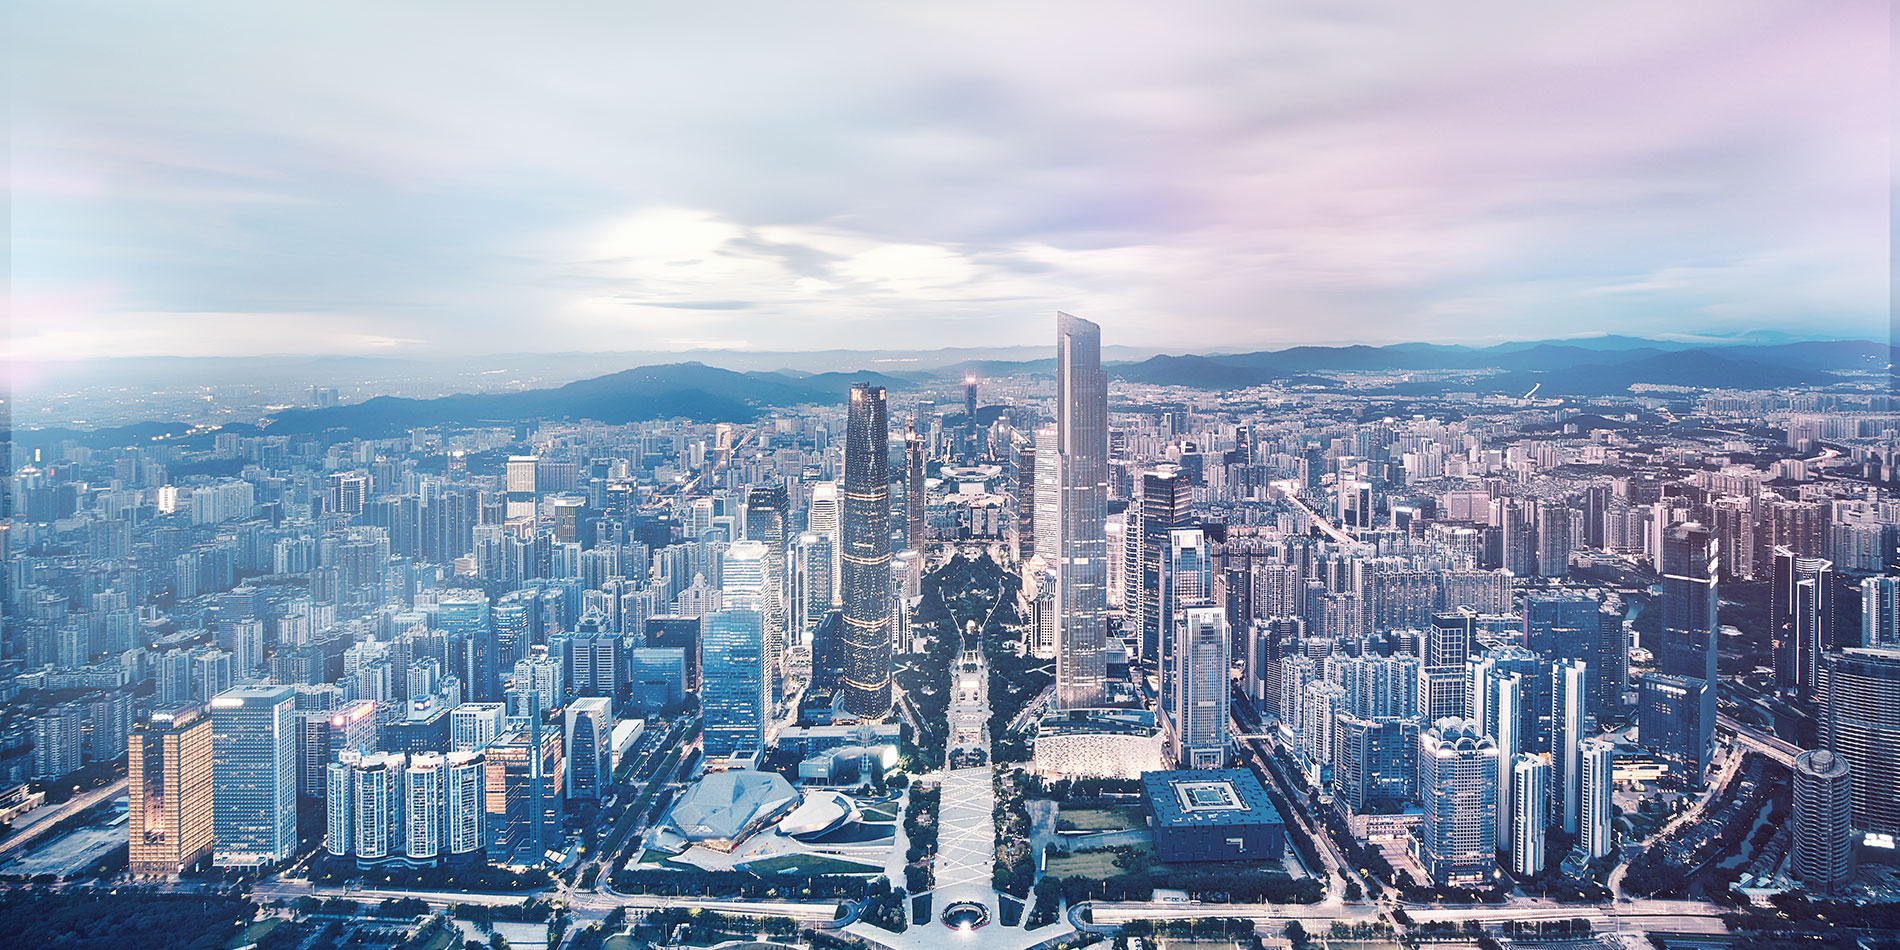
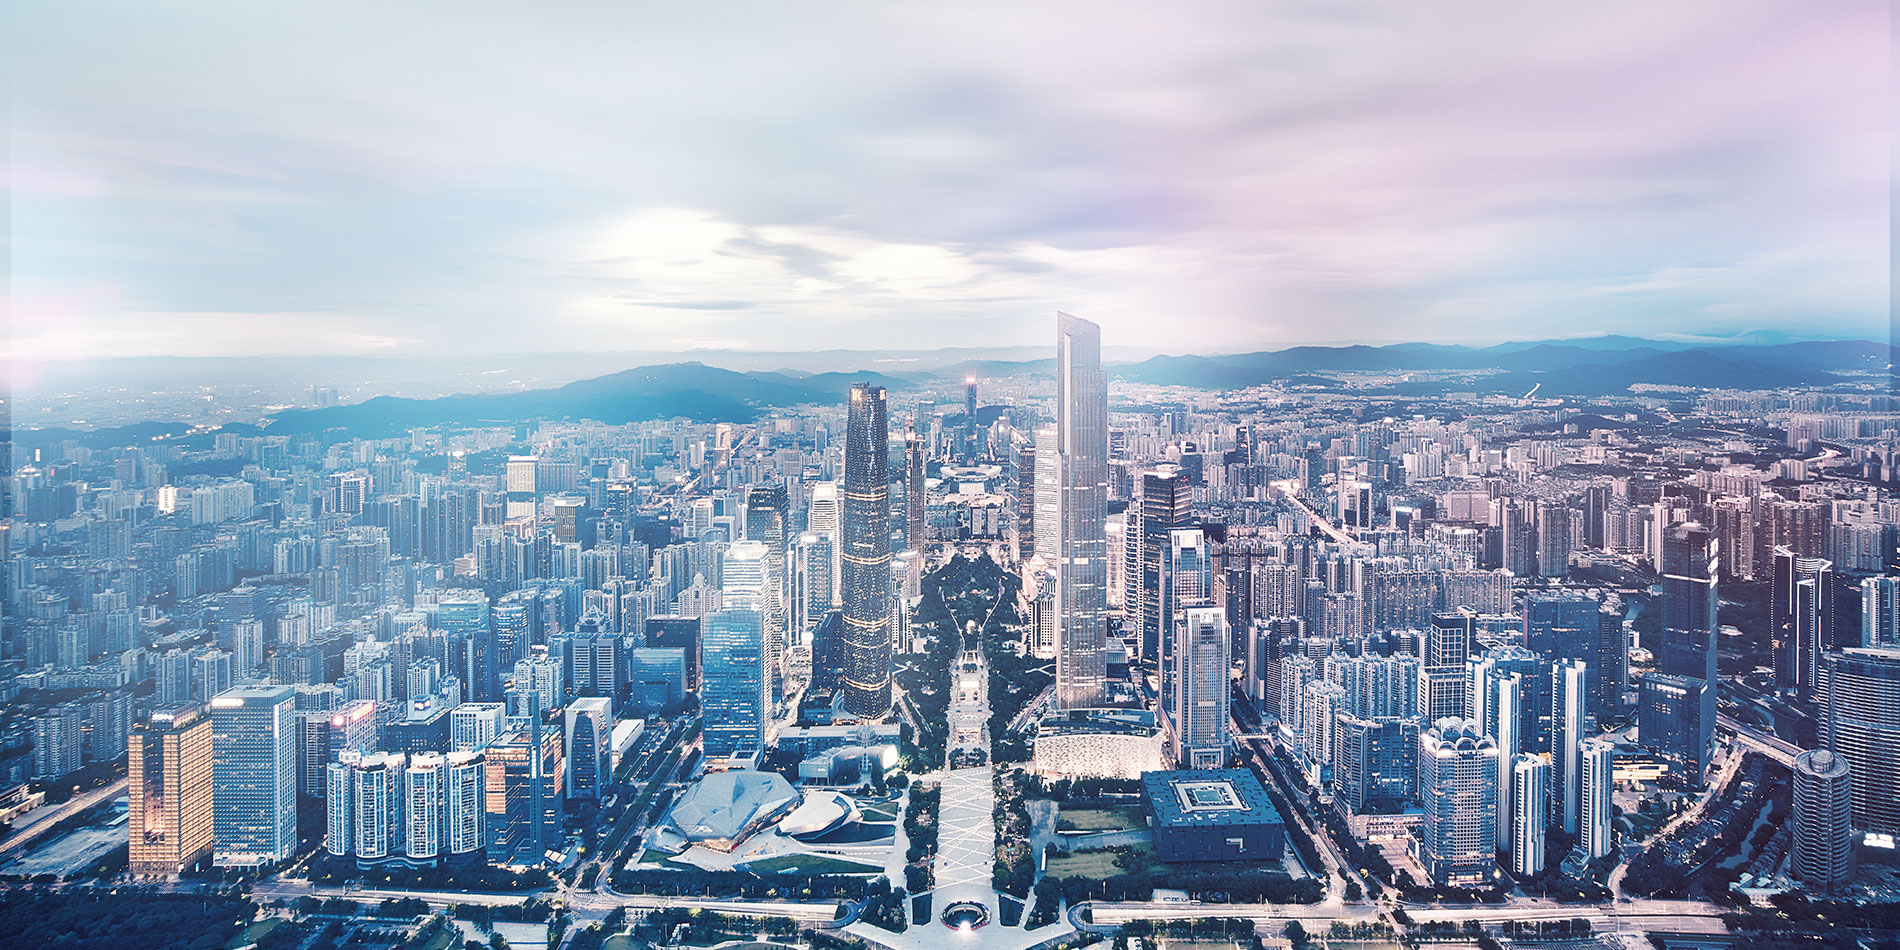
首頁切版完成

Changed region(s): [[0.1242, 0.3663, 0.3726, 0.5189], [0.4347, 0.3358, 0.6832, 0.4884], [0.9626, 0.7326, 0.9937, 0.7937]]

diff --git a/src/components/Index.vue b/src/components/Index.vue
@@ -75,7 +75,8 @@ export default {
 
 #page-index {
 
-  &::before {
+  &::before,
+  &::after {
     content: '';
     position: absolute;
     top: 0;
@@ -85,6 +86,20 @@ export default {
     background: url(../assets/index/bg.jpg) center center no-repeat;
     background-size: cover;
     z-index: -1;
+  }
+
+  &::after {
+    background-image: url(../assets/index/light_md.png);
+    background-size: 1200px 675px;
+  }
+
+  @media (min-width: 1600px) {
+
+    &::after {
+      background-image: url(../assets/index/light_lg.png);
+      background-size: 1900px 950px;
+    }
+
   }
 
   .anchor {
@@ -100,15 +115,106 @@ export default {
   .anchor-service { margin: -156px 0 0 -292px; }
   .anchor-others { margin: -88px 0 0 -458px; }
 
+  @media (min-width: 1600px) {
+    .anchor-automation { margin: -262px 0 0 528px; }
+    .anchor-security { margin: -178px 0 0 72px; }
+    .anchor-infrastructure { margin: -374px 0 0 -38px; }
+    .anchor-service { margin: -254px 0 0 -382px; }
+    .anchor-others { margin: -158px 0 0 -618px; }
+  }
+
+  .anchor::before,
+  .anchor::after {
+    content: '';
+    position: absolute;
+    bottom: -35px;
+    left: -35px;
+    width: 25px;
+    height: 25px;
+    border: #fff 1px solid;
+    border-radius: 50%;
+    box-shadow: rgba(255, 255, 255, 0.75) 0 0 15px;
+    @media (min-width: 1600px) {
+      width: 35px;
+      height: 35px;
+    }
+  }
+
+  .anchor::after {
+    bottom: -27px;
+    left: -27px;
+    width: 11px;
+    height: 11px;
+    border: 0;
+    background-color: #fff;
+    @media (min-width: 1600px) {
+      bottom: -24px;
+      left: -24px;
+      width: 15px;
+      height: 15px;
+    }
+  }
+
+  .anchor-automation {
+    &::before {bottom: -48px; left: -15px;}
+    &::after {bottom: -40px; left: -7px;}
+    @media (min-width: 1600px) {
+      &::before {bottom: -51px; left: -8px;}
+      &::after {bottom: -40px; left: 3px;}
+    }
+  }
+
+  .anchor-security {
+    @media (min-width: 1600px) {
+      &::before {bottom: -19px; left: -46px;}
+      &::after {bottom: -8px; left: -35px;}
+    }
+  }
+
+  .anchor-infrastructure {
+    &::before {bottom: -46px; left: -35px;}
+    &::after {bottom: -38px; left: -27px;}
+    @media (min-width: 1600px) {
+      &::before {bottom: -42px; left: -42px;}
+      &::after {bottom: -31px; left: -31px;}
+    }
+  }
+
+  .anchor-service {
+    &::before {bottom: -25px; left: -35px;}
+    &::after {bottom: -17px; left: -27px;}
+    @media (min-width: 1600px) {
+      &::before {bottom: -34px; left: -50px;}
+      &::after {bottom: -23px; left: -39px;}
+    }
+  }
+
+  .anchor-others {
+    &::before {bottom: -40px; left: -35px;}
+    &::after {bottom: -32px; left: -27px;}
+    @media (min-width: 1600px) {
+      &::before {bottom: -52px; left: -28px;}
+      &::after {bottom: -41px; left: -17px;}
+    }
+  }
+
   .page-name {
     font-size: 28px;
-    font-weight: 300;
+    font-weight: 400;
     margin: 0 0 5px;
+    @media (min-width: 1600px) {
+      font-size: 40px;
+      font-weight: 300;
+    }
   }
 
   .page-desc {
     font-size: 14px;
     font-weight: 800;
+    @media (min-width: 1600px) {
+      font-size: 20px;
+      font-weight: 700;
+    }
     a {
       display: inline-block;
       width: 57px;
@@ -122,6 +228,13 @@ export default {
       background: url(../assets/index/btn-more.svg) 0 0 no-repeat;
       background-size: contain;
       box-sizing: border-box;
+      @media (min-width: 1600px) {
+        width: 80px;
+        height: 18px;
+        font-size: 18px;
+        line-height: 14px;
+        vertical-align: middle;
+      }
     }
   }
 

diff --git a/src/App.vue b/src/App.vue
@@ -60,12 +60,13 @@ export default {
   },
   mounted() {
 
-    // fullpage.js 初始化
+    // // fullpage.js 初始化
     this.initFullpage();
 
   },
   methods: {
 
+    // fullpage.js 初始化
     initFullpage() {
       $('#main').fullpage({
         navigation: true,            // 顯示導行列
@@ -90,7 +91,7 @@ export default {
 
 <style>
 
-@import url('https://fonts.googleapis.com/css2?family=Lato:wght@400;700;900&display=swap');
+@import url('https://fonts.googleapis.com/css2?family=Lato:wght@300;400;700;900&display=swap');
 @import url('https://fonts.googleapis.com/earlyaccess/notosanstc.css');
 
 body {

diff --git a/src/components/Intro.vue b/src/components/Intro.vue
@@ -165,6 +165,13 @@ export default {
     }
   }
 
+  .part-2 {
+    .inner {
+      width: 100%;
+      height: auto;
+    }
+  }
+
   .brand {
 
     height: 82px;
